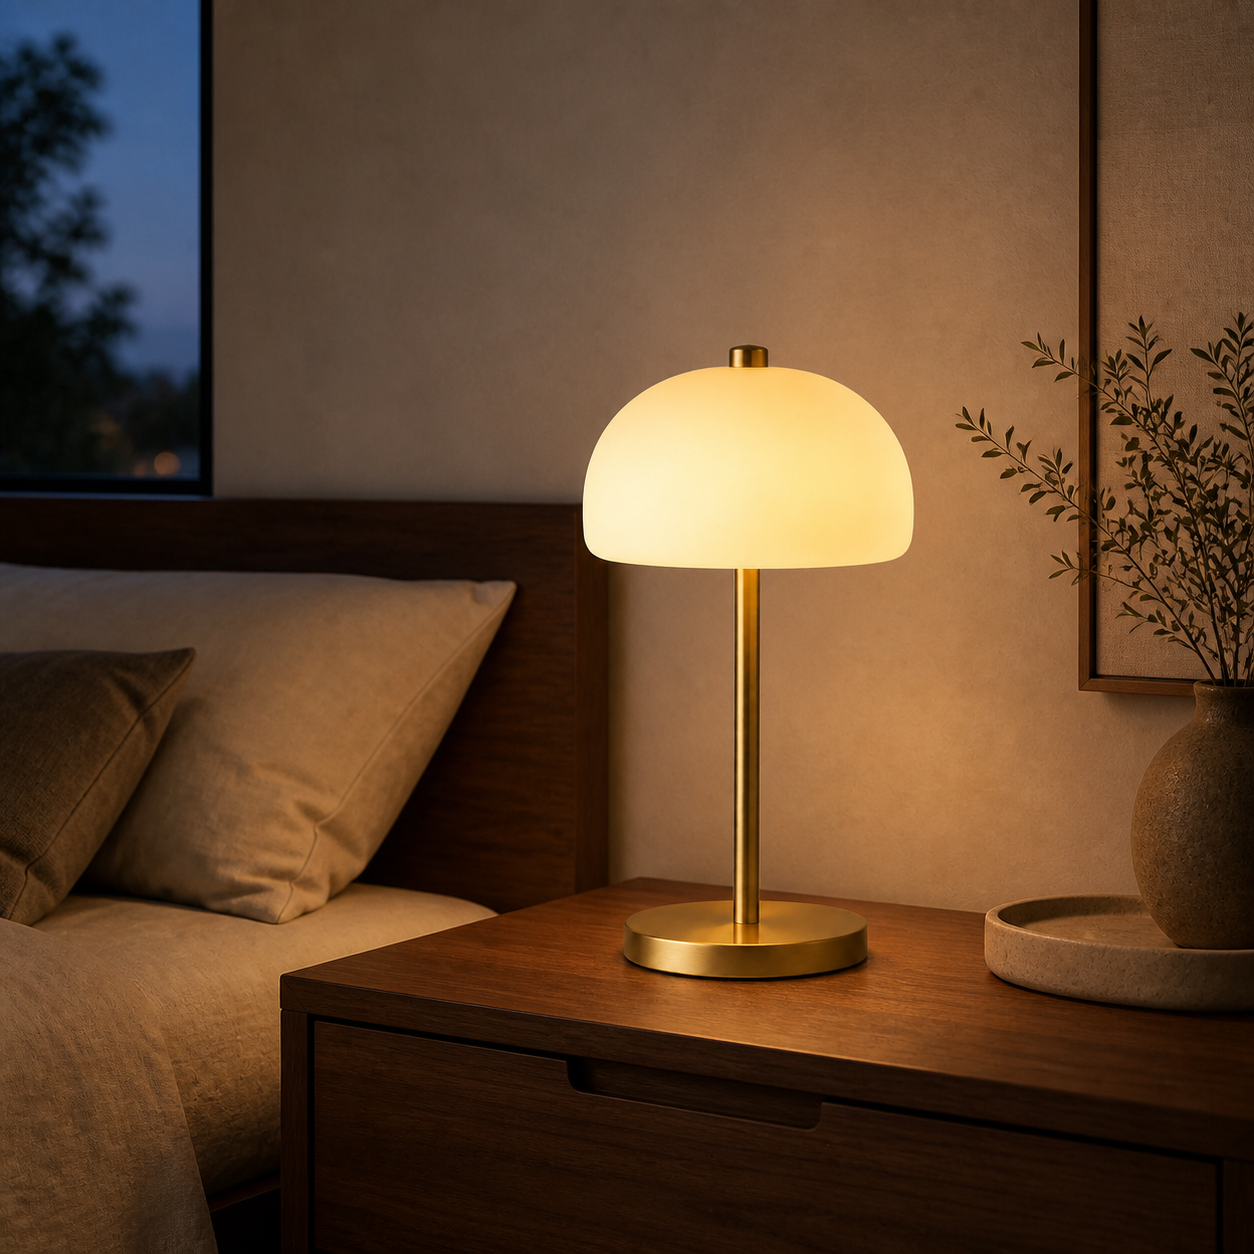
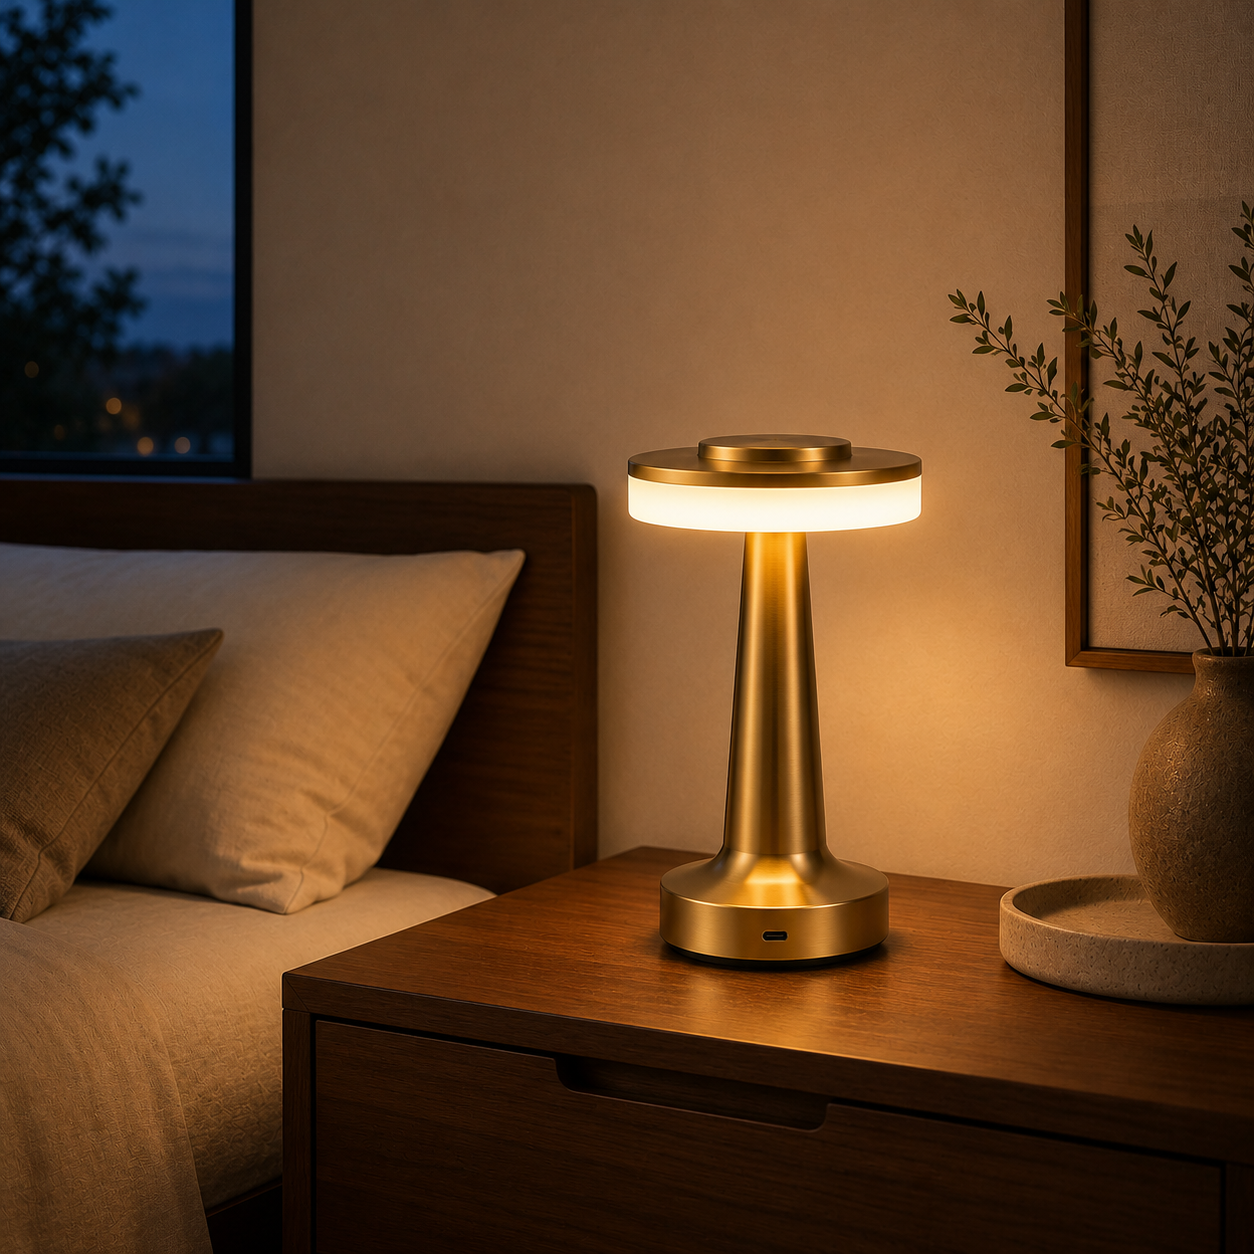
Add Google Tag Manager and Meta Pixel scripts; update HTML structure and images

Changed region(s): [[0.0, 0.0, 1.0, 1.0], [0.4354, 0.8397, 0.4665, 0.8708]]

diff --git a/index.html b/index.html
@@ -1,1 +1,143 @@
-<!doctype html><html lang="fr"><head><meta charset="UTF-8"><meta name="viewport" content="width=device-width,initial-scale=1"><meta name="theme-color" content="#171715"><meta name="description" content="Lumina, la veilleuse LED rechargeable qui transforme chaque ambiance."><link rel="preconnect" href="https://fonts.googleapis.com"><link rel="preconnect" href="https://fonts.gstatic.com" crossorigin><link href="https://fonts.googleapis.com/css2?family=DM+Sans:wght@400;500;600;700&family=Manrope:wght@600;700;800&display=swap" rel="stylesheet"><title>Lumina — Veilleuse LED rechargeable</title></head><body><div id="root"></div><script type="module" src="/src/main.tsx"></script></body></html>
+<!doctype html>
+<html lang="fr">
+  <head>
+    <!-- Google Tag Manager -->
+    <script>
+      (function (w, d, s, l, i) {
+        w[l] = w[l] || [];
+        w[l].push({
+          "gtm.start": new Date().getTime(),
+          event: "gtm.js",
+        });
+
+        var f = d.getElementsByTagName(s)[0];
+        var j = d.createElement(s);
+        var dl = l !== "dataLayer" ? "&l=" + l : "";
+
+        j.async = true;
+        j.src = "https://www.googletagmanager.com/gtm.js?id=" + i + dl;
+
+        f.parentNode.insertBefore(j, f);
+      })(window, document, "script", "dataLayer", "GTM-T52V236R");
+    </script>
+    <!-- End Google Tag Manager -->
+
+    <meta charset="UTF-8" />
+    <meta name="viewport" content="width=device-width, initial-scale=1" />
+    <meta name="theme-color" content="#171715" />
+
+    <meta
+      name="description"
+      content="Lumina, la veilleuse LED rechargeable qui transforme chaque ambiance."
+    />
+
+    <link rel="icon" type="image/png" href="/src/assets/images/lumina-product.png" />
+
+    <link rel="preconnect" href="https://fonts.googleapis.com" />
+    <link rel="preconnect" href="https://fonts.gstatic.com" crossorigin />
+
+    <link
+      href="https://fonts.googleapis.com/css2?family=DM+Sans:wght@400;500;600;700&family=Manrope:wght@600;700;800&display=swap"
+      rel="stylesheet"
+    />
+
+    <title>Lumina — Veilleuse LED rechargeable</title>
+
+    <!-- Open Graph -->
+    <meta
+      property="og:title"
+      content="Lumina — Veilleuse LED rechargeable"
+    />
+    <meta
+      property="og:description"
+      content="Lumina, la veilleuse LED rechargeable qui transforme chaque ambiance."
+    />
+    <meta
+      property="og:image"
+      content="/photo_de_couverture_enligne_.png"
+    />
+    <meta property="og:type" content="website" />
+
+    <!-- Twitter -->
+    <meta name="twitter:card" content="summary_large_image" />
+    <meta
+      name="twitter:title"
+      content="Lumina — Veilleuse LED rechargeable"
+    />
+    <meta
+      name="twitter:description"
+      content="Lumina, la veilleuse LED rechargeable qui transforme chaque ambiance."
+    />
+    <meta
+      name="twitter:image"
+      content="/photo_de_couverture_enligne_.png"
+    />
+
+    <!-- Meta Pixel -->
+    <script>
+      !(function (f, b, e, v, n, t, s) {
+        if (f.fbq) return;
+
+        n = f.fbq = function () {
+          n.callMethod
+            ? n.callMethod.apply(n, arguments)
+            : n.queue.push(arguments);
+        };
+
+        if (!f._fbq) {
+          f._fbq = n;
+        }
+
+        n.push = n;
+        n.loaded = true;
+        n.version = "2.0";
+        n.queue = [];
+
+        t = b.createElement(e);
+        t.async = true;
+        t.src = v;
+
+        s = b.getElementsByTagName(e)[0];
+        s.parentNode.insertBefore(t, s);
+      })(
+        window,
+        document,
+        "script",
+        "https://connect.facebook.net/en_US/fbevents.js",
+      );
+
+      fbq("init", "1470456335091988");
+      fbq("track", "PageView");
+    </script>
+    <!-- End Meta Pixel -->
+  </head>
+
+  <body>
+    <!-- Google Tag Manager noscript -->
+    <noscript>
+      <iframe
+        src="https://www.googletagmanager.com/ns.html?id=GTM-T52V236R"
+        height="0"
+        width="0"
+        style="display: none; visibility: hidden"
+      ></iframe>
+    </noscript>
+    <!-- End Google Tag Manager noscript -->
+
+    <!-- Meta Pixel noscript -->
+    <noscript>
+      <img
+        height="1"
+        width="1"
+        style="display: none"
+        src="https://www.facebook.com/tr?id=1470456335091988&ev=PageView&noscript=1"
+        alt=""
+      />
+    </noscript>
+    <!-- End Meta Pixel noscript -->
+
+    <div id="root"></div>
+
+    <script type="module" src="/src/main.tsx"></script>
+  </body>
+</html>

diff --git a/src/data/store.ts b/src/data/store.ts
@@ -2,6 +2,7 @@ import { BatteryCharging, Hand, Sparkles } from "lucide-react";
 import productImage from "../assets/images/lumina-product.png";
 import bedroomImage from "../assets/images/lumina-bedroom.png";
 import restaurantImage from "../assets/images/lumina-restaurant.png";
+import LuminaCadeau from "../assets/images/lumina-cadeau.png";
 import type { GalleryImage, Pack } from "../types/store";
 export const WHATSAPP_NUMBER = "33767653082";
 export const packs: Pack[] = [
@@ -44,6 +45,11 @@ export const gallery: GalleryImage[] = [
     src: restaurantImage,
     alt: "Lumina sur une table de restaurant chic",
     label: "Au restaurant",
+  },
+  {
+    src: LuminaCadeau,
+    alt: "Lumina en coffret cadeau",
+    label: "Coffret cadeau",
   },
 ];
 export const features = [
